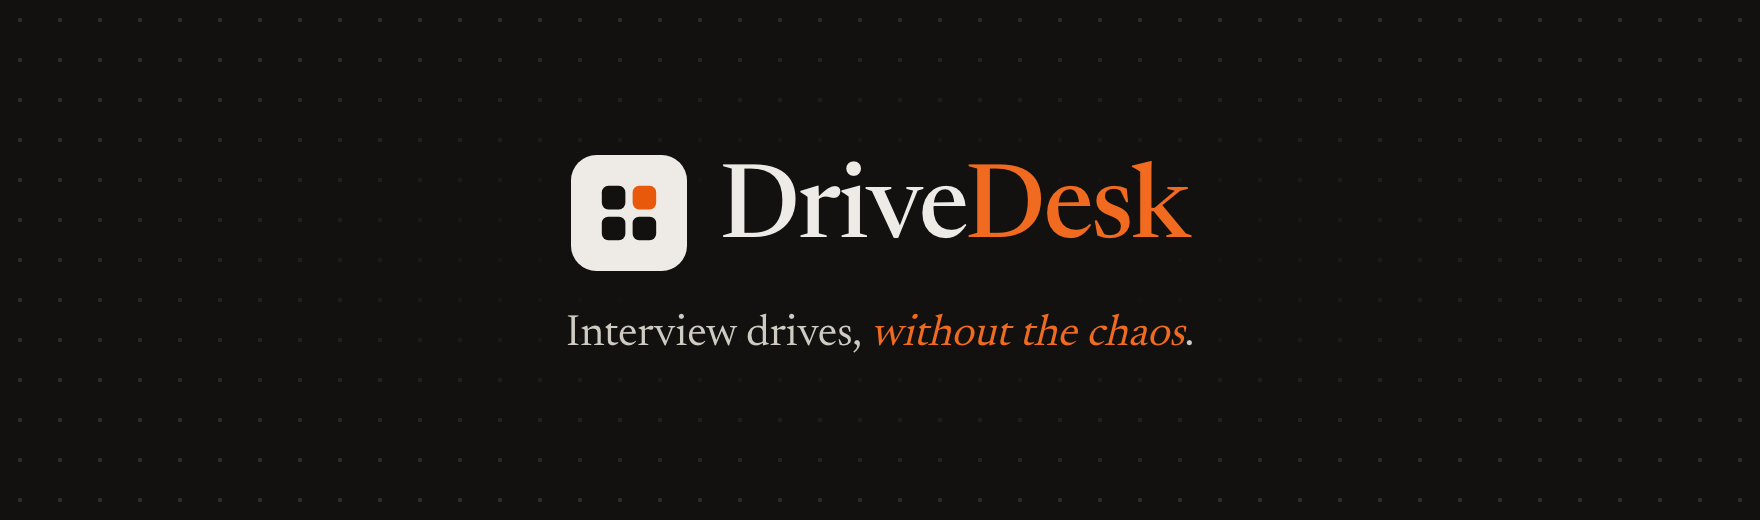
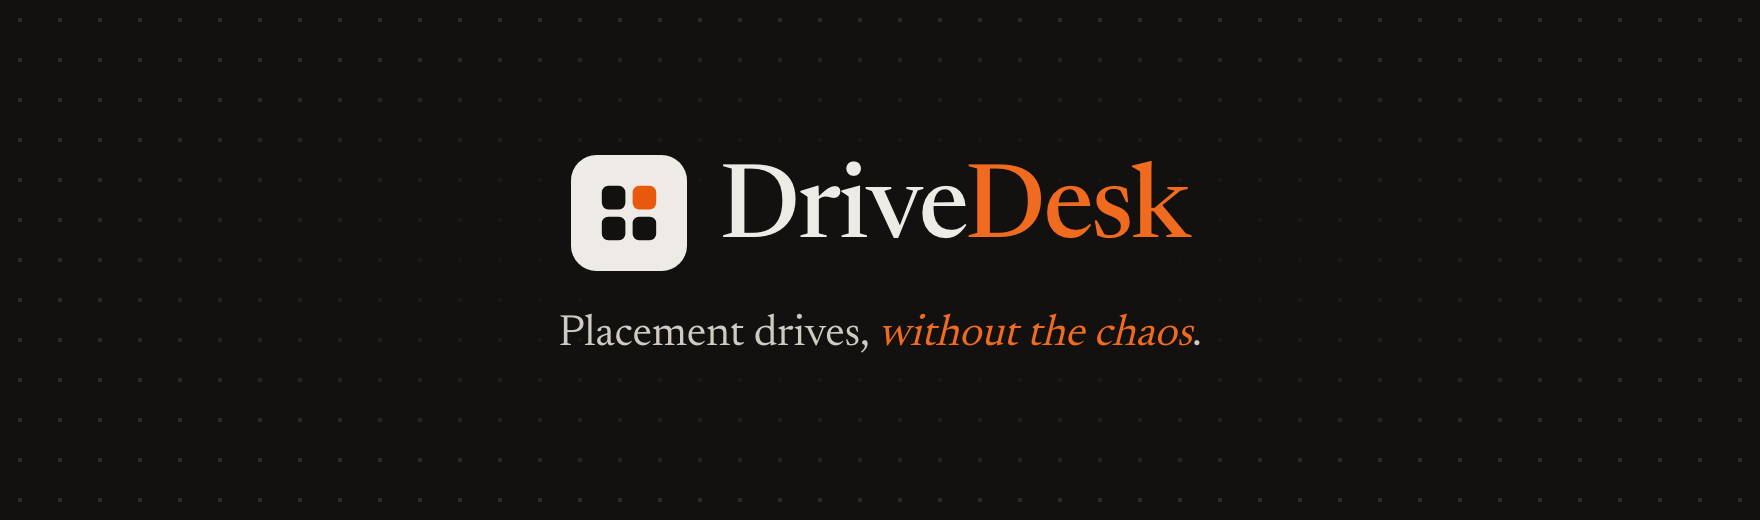
Tagline: Placement drives, without the chaos.

Changed region(s): [[0.3125, 0.5846, 0.6875, 0.6769]]

diff --git a/app/ui.tsx b/app/ui.tsx
@@ -136,7 +136,7 @@ function SignIn() {
       <section className="land-intro">
         <div className="land-brand"><Logo s={30} /><Wordmark /></div>
         <div className="land-copy">
-          <h1>Interview drives, <em>without the chaos</em>.</h1>
+          <h1>Placement drives, <em>without the chaos</em>.</h1>
           <p>Cabins, queues, attendance and results for the placement committee, live on every laptop and saved even when the Wi-Fi isn&rsquo;t.</p>
         </div>
       </section>

diff --git a/README.md b/README.md
@@ -1,7 +1,7 @@
 <p align="center">
   <picture>
     <source media="(prefers-color-scheme: dark)" srcset=".github/banner-dark.png">
-    <img src=".github/banner-light.png" alt="DriveDesk: interview drives, without the chaos" width="880">
+    <img src=".github/banner-light.png" alt="DriveDesk: placement drives, without the chaos" width="880">
   </picture>
 </p>
 
